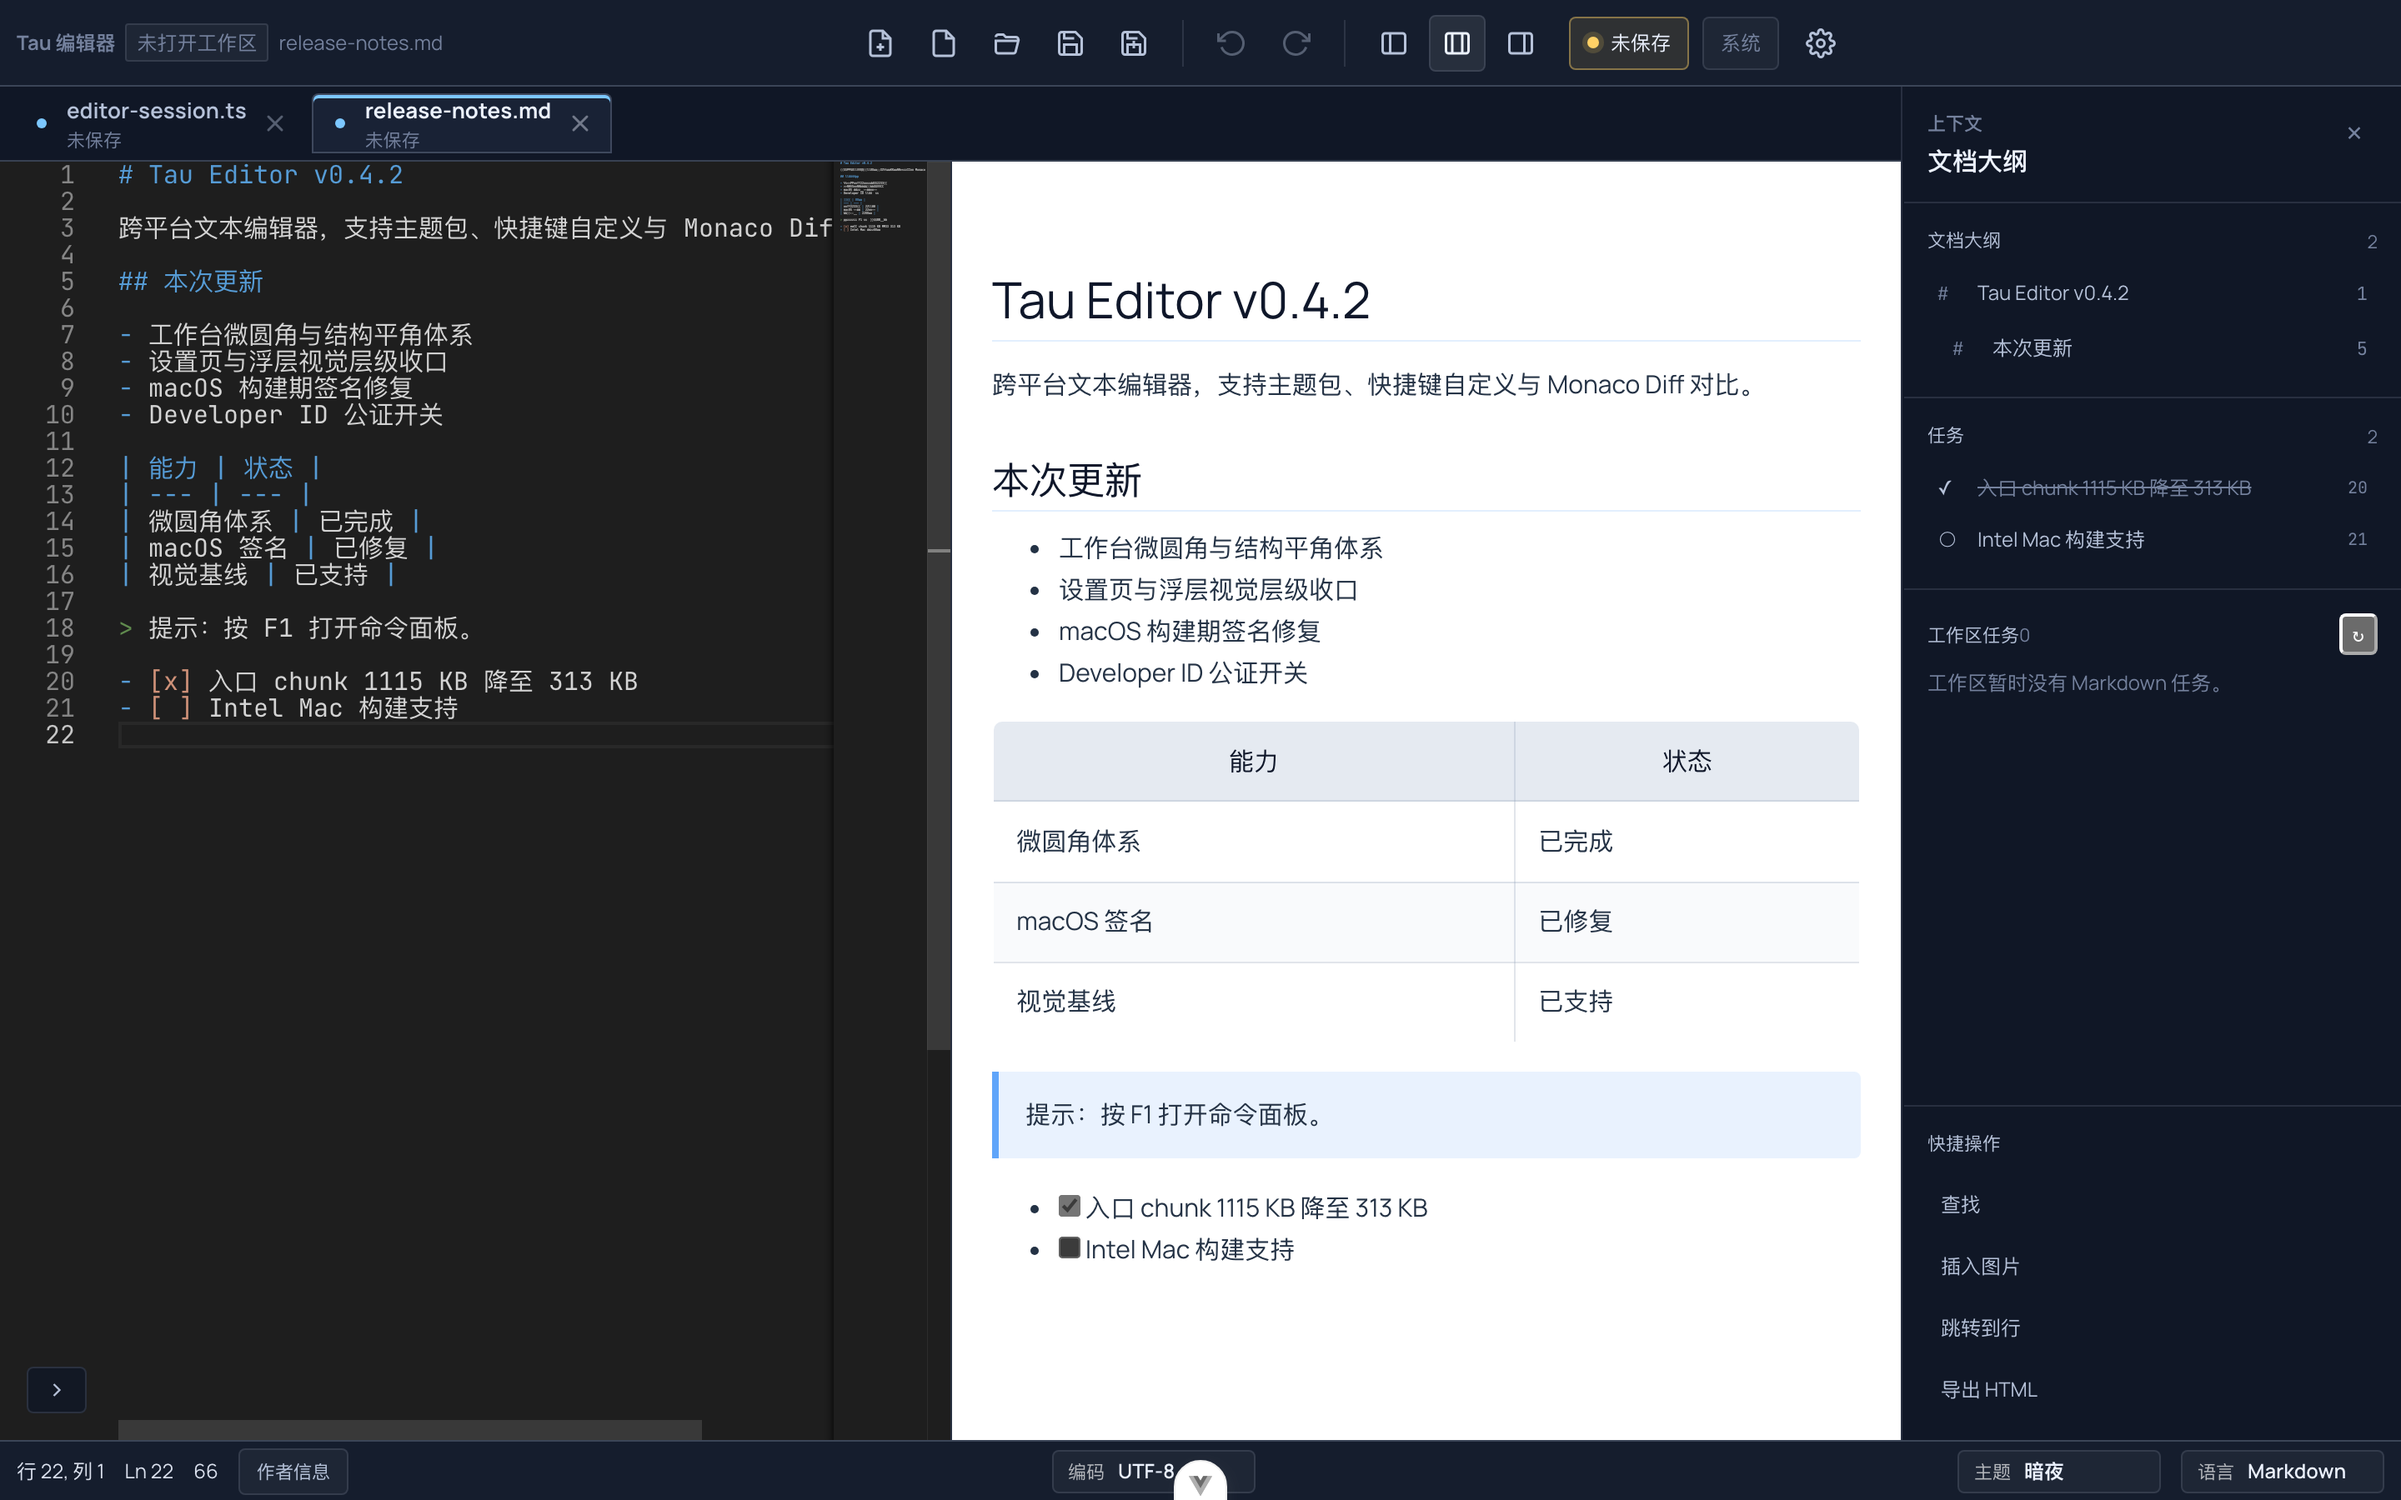
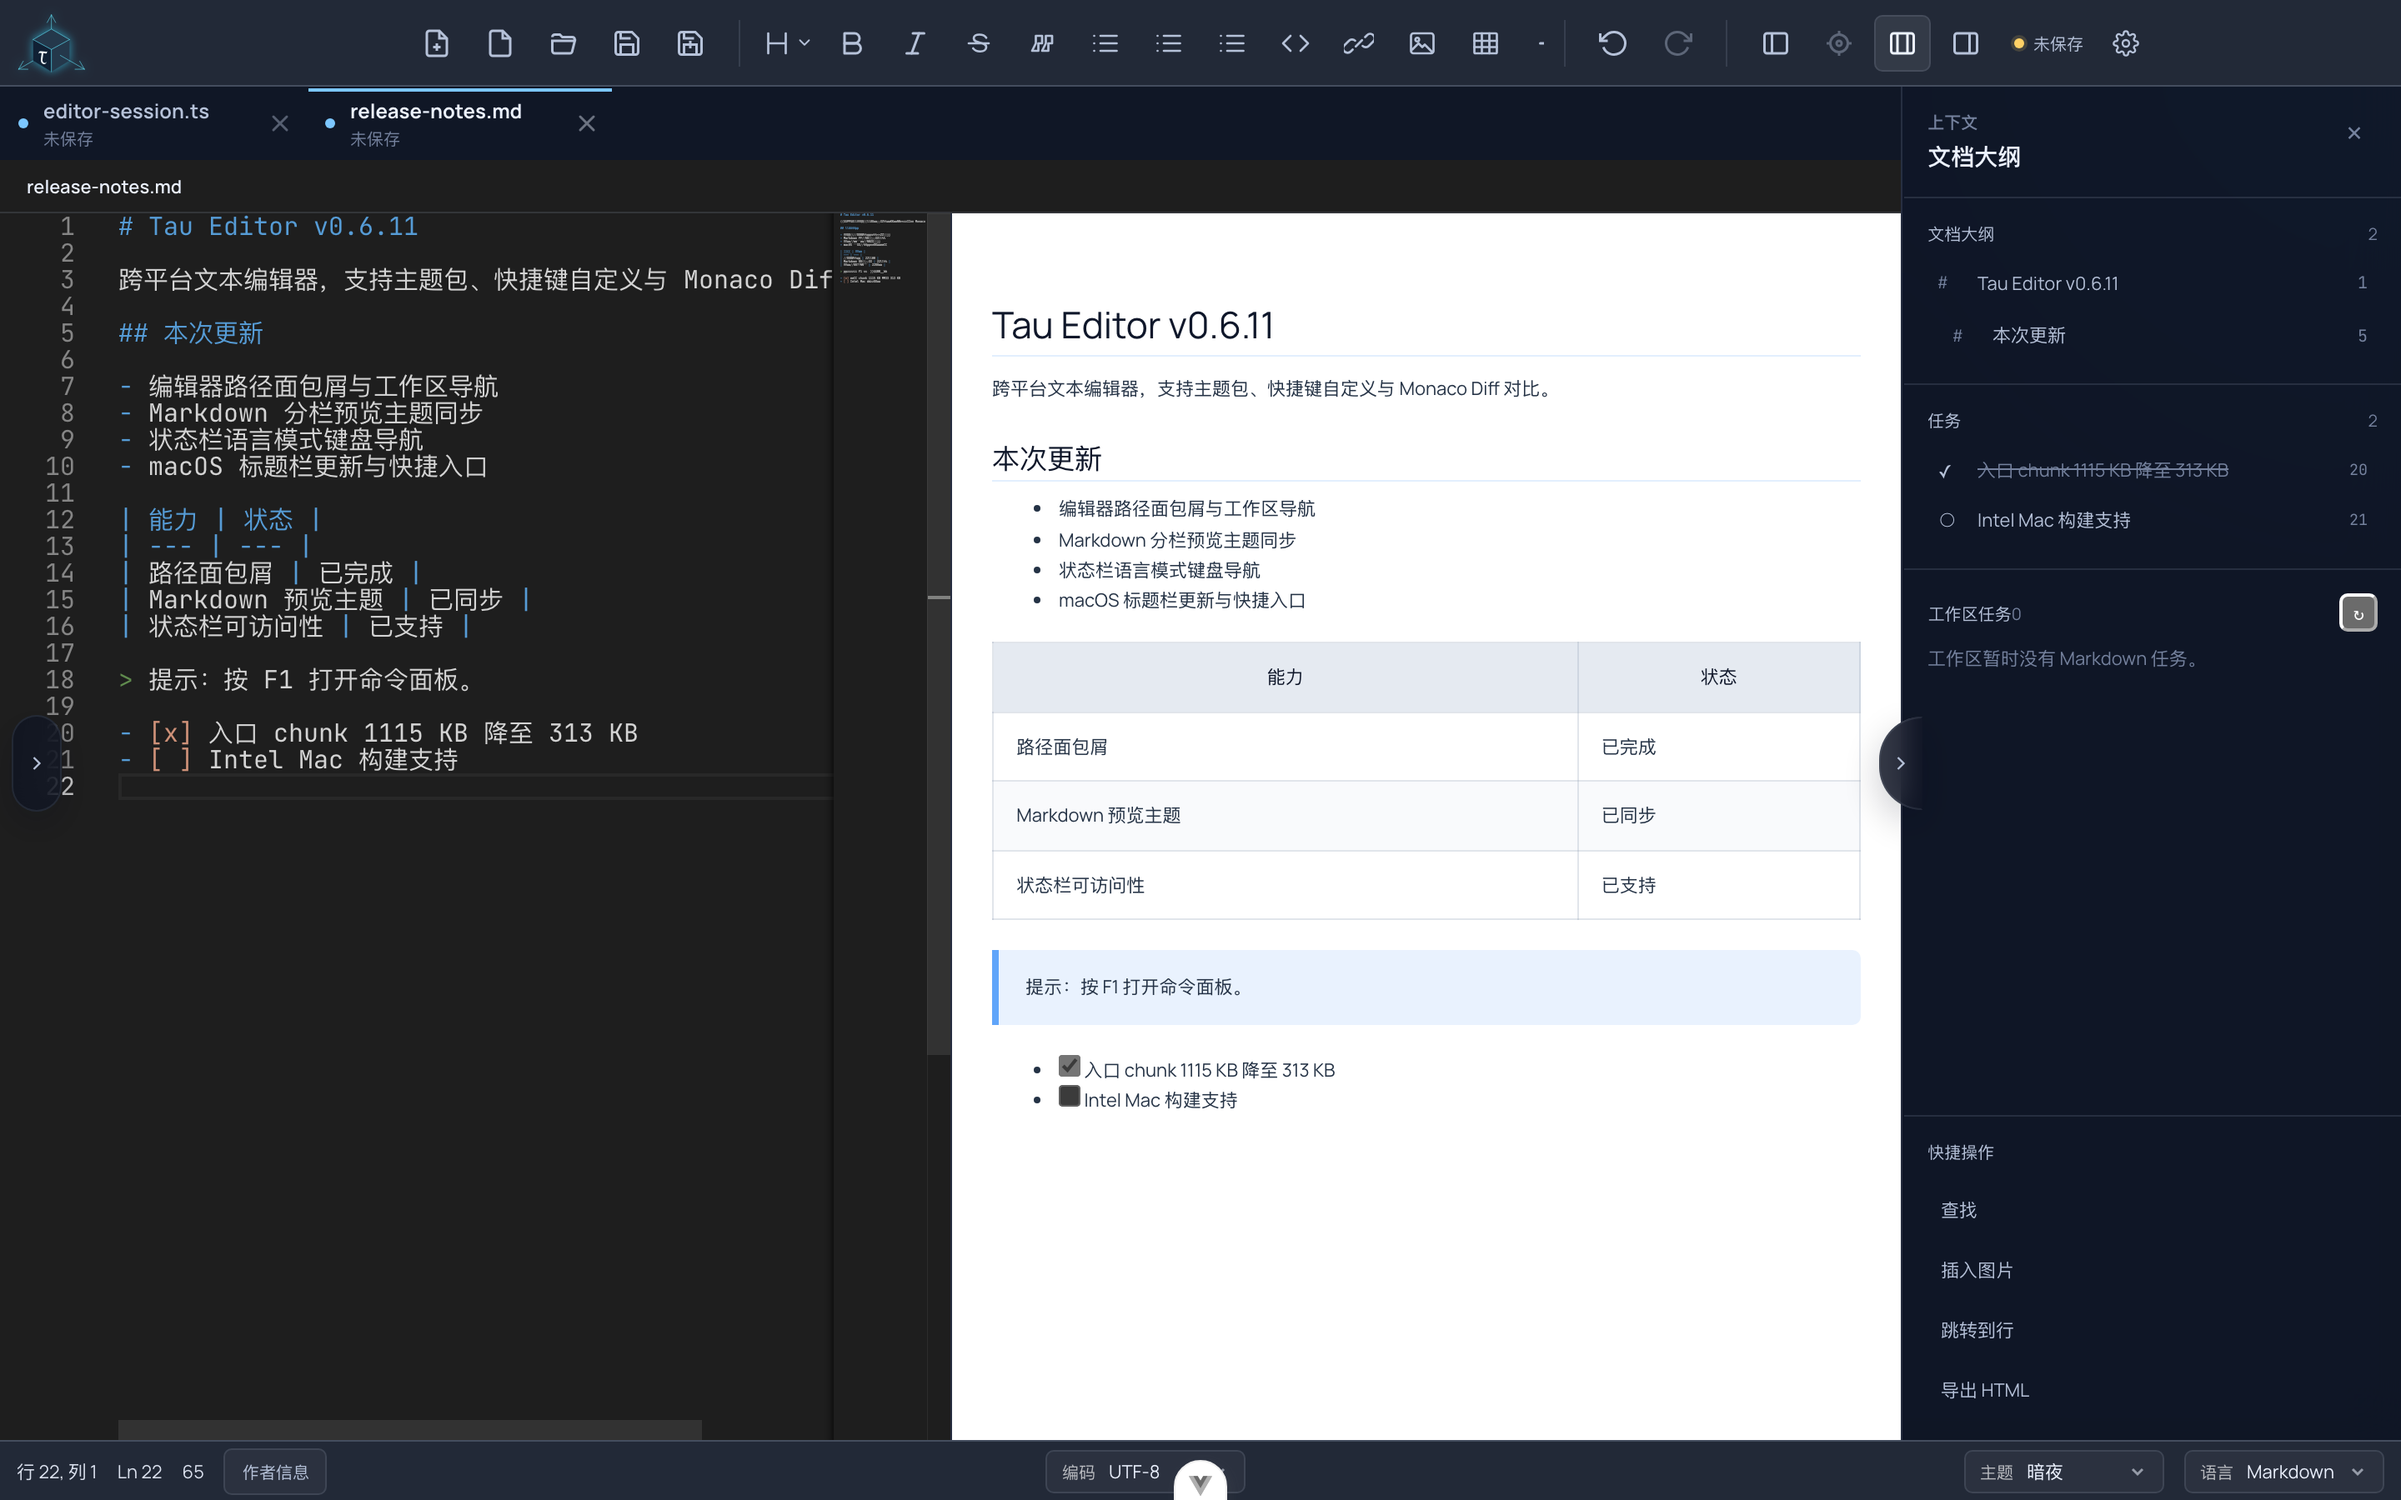
docs(website): refresh v0.6.11 screenshots

diff --git a/website/src/main.js b/website/src/main.js
@@ -15,18 +15,18 @@ const capabilities = [
 
 const releases = [
   {
-    version: 'v0.6.8', date: '2026-10-04', label: 'PAX 与 Java 语言服务修复', category: '稳定性', latest: true,
-    summary: '完善跨平台安装包与 Java 语言服务准备流程，补齐安全解包、超时重试和分阶段错误提示。',
-    highlights: ['支持 POSIX PAX 与 GNU L/K 长路径扩展', '安全处理 tar 路径穿越、绝对路径和危险条目类型', 'Java 安装拆分为 JRE runtime 与 JDTLS 两个阶段并复用缓存', '下载器增加连接超时、总超时、指数退避和可重试 HTTP 状态处理', 'Java 准备失败显示具体阶段、URL、尝试次数与底层错误原因'],
-    releaseUrl: 'https://github.com/kokotao/tau-editor/releases/tag/v0.6.8',
+    version: 'v0.6.11', date: '2026-10-08', label: '工作台导航与编辑器上下文', category: '编辑器体验', latest: true,
+    summary: '更新安装体验、macOS 工作台导航、编辑器路径上下文和状态栏可访问性，并收口 Markdown 预览、图片预览、主题市场、工具栏与标签页交互。',
+    highlights: ['新增编辑器路径面包屑，工作区、文件夹与文件可联动定位', 'macOS 标题栏支持返回/前进、Quick Open、命令面板、资源区、上下文栏和 Markdown 预览入口', '状态栏编码、语言模式和主题改为支持键盘导航的自绘选择器', 'Markdown 预览新增林间薄荷、雾紫信笺和深海蓝调风格并修复外链与主题同步', '更新包改为流式写入并显示下载进度，macOS 标题栏可触发匹配设备安装包下载'],
+    releaseUrl: 'https://github.com/kokotao/tau-editor/releases/tag/v0.6.11',
     assets: [
-      ['Tau.Editor-0.6.8-1.x86_64.rpm', 'https://github.com/kokotao/tau-editor/releases/download/v0.6.8/Tau.Editor-0.6.8-1.x86_64.rpm'],
-      ['Tau.Editor_0.6.8_aarch64.dmg', 'https://github.com/kokotao/tau-editor/releases/download/v0.6.8/Tau.Editor_0.6.8_aarch64.dmg'],
-      ['Tau.Editor_0.6.8_amd64.AppImage', 'https://github.com/kokotao/tau-editor/releases/download/v0.6.8/Tau.Editor_0.6.8_amd64.AppImage'],
-      ['Tau.Editor_0.6.8_amd64.deb', 'https://github.com/kokotao/tau-editor/releases/download/v0.6.8/Tau.Editor_0.6.8_amd64.deb'],
-      ['Tau.Editor_0.6.8_universal.dmg', 'https://github.com/kokotao/tau-editor/releases/download/v0.6.8/Tau.Editor_0.6.8_universal.dmg'],
-      ['Tau.Editor_0.6.8_x64-setup.exe', 'https://github.com/kokotao/tau-editor/releases/download/v0.6.8/Tau.Editor_0.6.8_x64-setup.exe'],
-      ['Tau.Editor_0.6.8_x64_zh-CN.msi', 'https://github.com/kokotao/tau-editor/releases/download/v0.6.8/Tau.Editor_0.6.8_x64_zh-CN.msi'],
+      ['Tau.Editor-0.6.11-1.x86_64.rpm', 'https://github.com/kokotao/tau-editor/releases/download/v0.6.11/Tau.Editor-0.6.11-1.x86_64.rpm'],
+      ['Tau.Editor_0.6.11_aarch64.dmg', 'https://github.com/kokotao/tau-editor/releases/download/v0.6.11/Tau.Editor_0.6.11_aarch64.dmg'],
+      ['Tau.Editor_0.6.11_amd64.AppImage', 'https://github.com/kokotao/tau-editor/releases/download/v0.6.11/Tau.Editor_0.6.11_amd64.AppImage'],
+      ['Tau.Editor_0.6.11_amd64.deb', 'https://github.com/kokotao/tau-editor/releases/download/v0.6.11/Tau.Editor_0.6.11_amd64.deb'],
+      ['Tau.Editor_0.6.11_universal.dmg', 'https://github.com/kokotao/tau-editor/releases/download/v0.6.11/Tau.Editor_0.6.11_universal.dmg'],
+      ['Tau.Editor_0.6.11_x64-setup.exe', 'https://github.com/kokotao/tau-editor/releases/download/v0.6.11/Tau.Editor_0.6.11_x64-setup.exe'],
+      ['Tau.Editor_0.6.11_x64_zh-CN.msi', 'https://github.com/kokotao/tau-editor/releases/download/v0.6.11/Tau.Editor_0.6.11_x64_zh-CN.msi'],
     ].map(([name, url]) => ({ name, url })),
   },
   {
@@ -360,9 +360,9 @@ document.querySelector('#app').innerHTML = `
 
     <section class="capabilities container reveal"><div class="capability-intro"><p class="eyebrow">BUILT FOR THE FLOW</p><h2>每一个细节，<br><em>都在帮你前进。</em></h2><p>从第一次打开文件，到完成一次提交，Tau 把高频动作变成自然的节奏。现在，主题市场和可调节外观也加入了这条工作流。</p></div><div class="capability-grid">${capabilities.map(([icon, title, body]) => `<article class="capability"><span>${icon}</span><h3>${title}</h3><p>${body}</p></article>`).join('')}</div></section>
 
-    <section id="preview" class="preview container reveal"><div><p class="eyebrow">A WORKSPACE THAT ADAPTS</p><h2>你的文件，<br><em>你的节奏。</em></h2><p>从一个纯文本文件，到一整个项目工作区。Tau 将你每天依赖的能力，收进一个轻盈而清晰的界面。</p><a class="text-link" href="https://github.com/kokotao/tau-editor" target="_blank" rel="noreferrer">在 GitHub 查看全部功能 ↗</a></div><figure><img src="./assets/editor.png" alt="Tau Editor 编辑器界面预览"><figcaption>Tau Editor · focused workspace</figcaption></figure></section>
+    <section id="preview" class="preview container reveal"><div><p class="eyebrow">A WORKSPACE THAT ADAPTS</p><h2>你的文件，<br><em>你的节奏。</em></h2><p>路径面包屑、标签页和沉浸式编辑区，把工作区上下文留在视线之内；从纯文本到完整项目，都能保持专注。</p><a class="text-link" href="https://github.com/kokotao/tau-editor" target="_blank" rel="noreferrer">在 GitHub 查看全部功能 ↗</a></div><figure><img src="./assets/editor.png" alt="Tau Editor v0.6.11 路径面包屑与沉浸式编辑工作区预览"><figcaption>Tau Editor · focused workspace with breadcrumbs</figcaption></figure></section>
 
-    <section class="gallery container reveal"><div class="gallery-heading"><p class="eyebrow">A CLOSER LOOK</p><h2>把工作台，<br><em>带在手边。</em></h2></div><div class="gallery-grid"><figure><img src="./assets/markdown-preview.png" alt="Markdown 分栏预览"><figcaption>Markdown preview</figcaption></figure><figure><img src="./assets/command-palette.png" alt="命令面板"><figcaption>Command palette</figcaption></figure><figure><img src="./assets/settings.png" alt="快捷键与扩展设置"><figcaption>Settings that fit</figcaption></figure></div></section>
+    <section class="gallery container reveal"><div class="gallery-heading"><p class="eyebrow">A CLOSER LOOK</p><h2>把工作台，<br><em>带在手边。</em></h2></div><div class="gallery-grid"><figure><img src="./assets/markdown-preview.png" alt="Tau Editor v0.6.11 Markdown 分栏预览与文档上下文"><figcaption>Markdown preview · split editing and context</figcaption></figure><figure><img src="./assets/command-palette.png" alt="Tau Editor 命令面板与快速导航"><figcaption>Command palette · every action within reach</figcaption></figure><figure><img src="./assets/settings.png" alt="Tau Editor 主题、快捷键与语言服务设置"><figcaption>Settings · themes, keybindings and language services</figcaption></figure></div></section>
 
     <section id="releases" class="releases container reveal"><div class="release-heading"><div><p class="eyebrow">RELEASE NOTES</p><h2>每一次更新，<br><em>都值得被看见。</em></h2></div><p>更新日志自动同步 GitHub Releases，按公开 tag 排序展示；网络不可用时保留内置版本记录。</p></div><div class="release-sync-status" role="status" aria-live="polite" data-release-sync>内置版本记录 · 正在同步 GitHub Releases…</div><div class="release-filters" role="group" aria-label="筛选更新日志">${renderReleaseFilters(releases)}</div><div class="release-list">${renderReleaseCards(releases)}</div></section>
 

diff --git a/docs/release/20261008224000000_Tau官网截图介绍更新记录.md b/docs/release/20261008224000000_Tau官网截图介绍更新记录.md
@@ -1,0 +1,29 @@
+# Tau 官网截图介绍更新记录
+
+日期：2026-10-08
+范围：官网预览截图与截图介绍；不变更 Tau Editor 桌面版版本号或 GitHub Release。
+
+## 更新内容
+
+- 使用当前 v0.6.11 前端重新采集编辑器、Markdown 预览、命令面板和设置页四张截图。
+- 同步更新 `docs/assets/screenshots/` 与 `website/public/assets/`，确保文档素材和官网资源一致。
+- 更新官网截图 alt 与说明文案，展示 Markdown 分栏、文档上下文、命令面板和主题/快捷键/语言服务设置。
+- 将官网内置 Release 回退数据更新至 v0.6.11，GitHub Releases API 不可用时仍显示当前版本和安装包链接。
+- 修复截图脚本对状态栏自绘语言选择器的操作，并将演示文档内容更新至 v0.6.11。
+
+## 验证
+
+- `node scripts/capture-readme-shots.mjs http://127.0.0.1:5173`：通过，生成四张 PNG 和演示 WebM。
+- `npm --prefix website run build`：通过。
+- `node --check website/src/main.js`：通过。
+- `git diff --check`：通过。
+- Playwright 本地官网回归：四张图片均为 2880×1800 且成功解码；桌面与 390px 移动视口均无横向溢出；页面显示 v0.6.11。
+- 动态 Release API 在本地浏览器返回 HTTP 403，页面正确回退到内置 v0.6.11 数据。
+
+## 发布状态
+
+截至记录生成时，改动已在本地完成并验证，尚未提交或推送；GitHub Pages 线上部署尚未触发。
+
+## 回滚
+
+恢复本记录涉及的 `website/src/main.js`、四张 `website/public/assets/*.png` 及官网部署提交即可回滚；桌面应用代码与已发布的 `v0.6.11` Release 不受影响。
